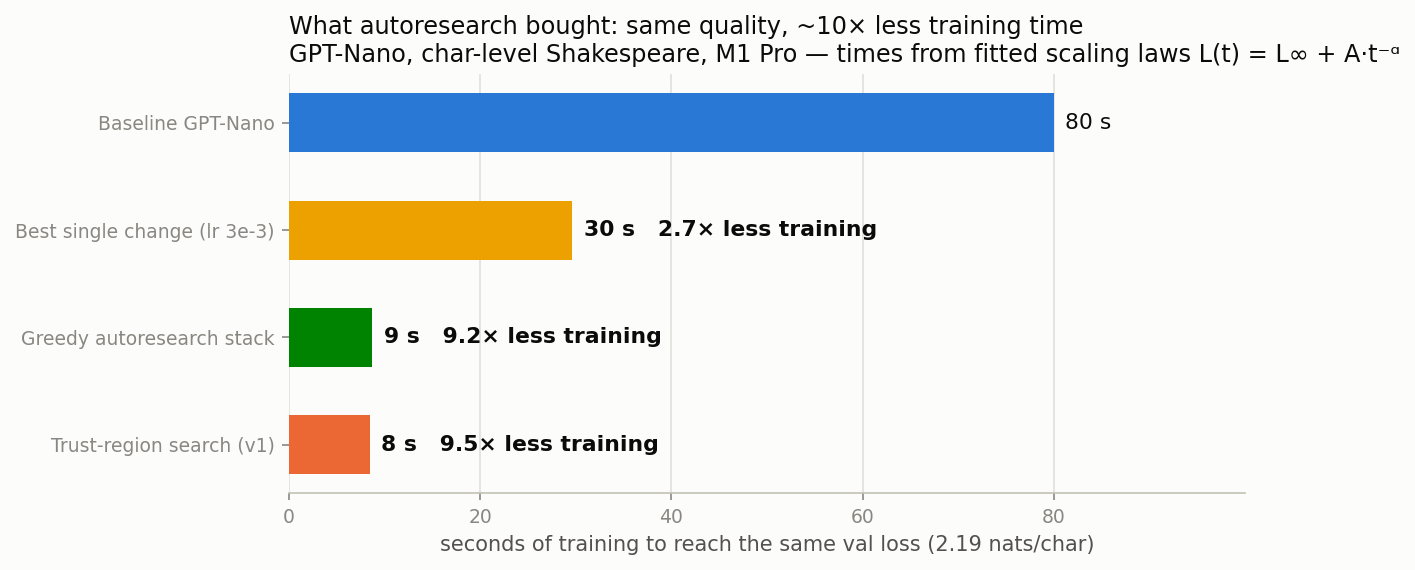
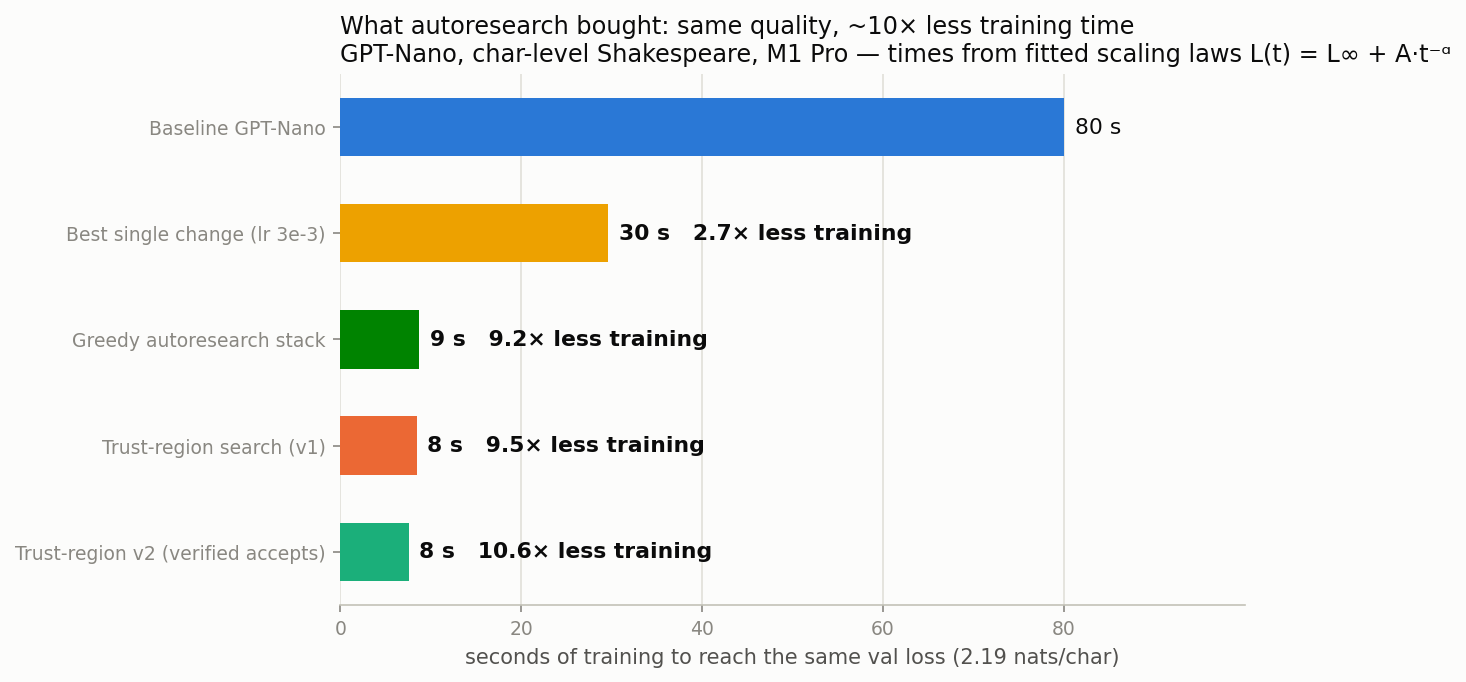
Add TR v2 campaign results and the replicated three-way verdict
v2 campaign (gbar metric, CI acceptance): 2 skip-confirms, 1 noise-level
hold, 1 false positive caught, 1 certified accept (+0.0158 > 0.0125,
n=2), 1-flip local optimality certified. Replicated verdict at 80s:
greedy combo 1.6615+-0.0114 (n=7), v1 uncertified 1.6327+-0.0169 (n=5,
z=3.3 vs combo), v2 certified 1.6489+-0.0060 (n=3, z=2.3 vs combo).
Both TR campaigns beat greedy under replication; v1's risk-taking gained
more, v2 finished with certificates. Figures refreshed (tr2_best joins
the headline bars at 7.6s / 10.6x; it5 under-promise added to scatter).

Claude-Session: https://claude.ai/code/session_01F9BVKaNAeZHzo1DMP4oC7X

Changed region(s): [[0.0, 0.2982, 0.8396, 0.9842], [0.0622, 0.0298, 0.9951, 0.2684]]

diff --git a/make_counterexample.py b/make_counterexample.py
@@ -48,6 +48,7 @@ CAMPAIGN = [
     ("v1 it6", -0.0172, 0.0001),
     ("v2 it3", 0.0006, 0.0027),
     ("v2 it4", 0.0079, -0.0035),
+    ("v2 it5", 0.0013, 0.0158),
 ]
 
 

diff --git a/results/tr2_log.md b/results/tr2_log.md
@@ -1,0 +1,151 @@
+
+# TR v2 campaign 2026-07-18 15:59
+metric: W={'lr': 0.097, 'batch_size': 0.06, 'weight_decay': 0.06, 'dropout': 0.034}  GBAR={'rotary': 0.224, 'weight_tying': 0.136, 'cosine': 0.136, 'rmsnorm': 0.069, 'swiglu': 0.069}
+surrogate {20,40}s, confirm 80s x 2 reps, delta0=0.25 nats, accept >= max(0.05*delta^2, 1.645*SE)
+
+## Iteration 0: score incumbent (combo)
+    tr2_inc0 @ 20s seed=0 -> 1.8955 (230 steps)
+    tr2_inc0 @ 40s seed=0 -> 1.7400 (460 steps)
+    tr2_inc0 @ 80s seed=1 -> 1.6553 (920 steps)
+    tr2_inc0 @ 80s seed=2 -> 1.6596 (910 steps)
+  F_inc = 1.6574 (n=2), L_inf = 1.564
+    tr2_inc_fresh @ 80s seed=3 -> 1.6739 (930 steps)
+
+## Iteration 1  (delta=0.250 nats, F_inc=1.6629 n=3)
+  candidate 0 (d=0.209, flips=-): batch_size=133, lr=0.00204, weight_decay=0.009757
+    tr2_it1_c0 @ 20s seed=0 -> 1.9494 (230 steps)
+    tr2_it1_c0 @ 40s seed=0 -> 1.7628 (460 steps)
+    surrogate: L(80) ~= 1.6665
+  candidate 1 (d=0.250, flips=['rotary', 'rmsnorm']): batch_size=173, dropout=0.01018, lr=0.002114, rmsnorm->False, rotary->False, weight_decay=0.2156
+    tr2_it1_c1 @ 20s seed=0 -> 2.1218 (240 steps)
+    tr2_it1_c1 @ 40s seed=0 -> 1.8754 (480 steps)
+    surrogate: L(80) ~= 1.7379
+  candidate 2 (d=0.134, flips=['swiglu']): batch_size=236, lr=0.002818, swiglu->False, weight_decay=0.3209
+    tr2_it1_c2 @ 20s seed=0 -> 2.1046 (170 steps)
+    tr2_it1_c2 @ 40s seed=0 -> 1.9258 (320 steps)
+    surrogate: L(80) ~= 1.8060
+  candidate 3 (d=0.155, flips=['weight_tying']): lr=0.001873, weight_decay=0.1513, weight_tying->True
+    tr2_it1_c3 @ 20s seed=0 -> 2.0426 (220 steps)
+    tr2_it1_c3 @ 40s seed=0 -> 1.8458 (450 steps)
+    surrogate: L(80) ~= 1.7299
+  best candidate 0: predicted improve -0.0036
+  SKIP-CONFIRM (no predicted improvement in region); shrink
+    tr2_inc_fresh @ 80s seed=4 -> 1.6461 (870 steps)
+
+## Iteration 2  (delta=0.150 nats, F_inc=1.6587 n=4)
+  candidate 0 (d=0.147, flips=['rmsnorm', 'swiglu']): batch_size=163, dropout=0.1496, lr=0.002389, rmsnorm->False, swiglu->False, weight_decay=0.08253
+    tr2_it2_c0 @ 20s seed=0 -> 2.0701 (220 steps)
+    tr2_it2_c0 @ 40s seed=0 -> 1.9020 (450 steps)
+    surrogate: L(80) ~= 1.7897
+  candidate 1 (d=0.105, flips=-): batch_size=81, dropout=0.004322, lr=0.001705, weight_decay=0.191
+    tr2_it2_c1 @ 20s seed=0 -> 2.0315 (200 steps)
+    tr2_it2_c1 @ 40s seed=0 -> 1.8683 (400 steps)
+    surrogate: L(80) ~= 1.7620
+  candidate 2 (d=0.149, flips=['swiglu']): batch_size=366, dropout=0.1246, lr=0.002244, swiglu->False, weight_decay=0.08363
+    tr2_it2_c2 @ 20s seed=0 -> 2.3183 (90 steps)
+    tr2_it2_c2 @ 40s seed=0 -> 2.0701 (200 steps)
+    surrogate: L(80) ~= 1.9036
+  candidate 3 (d=0.047, flips=-): batch_size=84, lr=0.002884, weight_decay=0.1404
+    tr2_it2_c3 @ 20s seed=0 -> 1.9291 (230 steps)
+    tr2_it2_c3 @ 40s seed=0 -> 1.7883 (450 steps)
+    surrogate: L(80) ~= 1.7019
+  best candidate 3: predicted improve -0.0431
+  SKIP-CONFIRM (no predicted improvement in region); shrink
+    tr2_inc_fresh @ 80s seed=5 -> 1.6654 (870 steps)
+
+## Iteration 3  (delta=0.090 nats, F_inc=1.6601 n=5)
+  candidate 0 (d=0.055, flips=-): batch_size=99, dropout=0.03071, lr=0.00346, weight_decay=0.1603
+    tr2_it3_c0 @ 20s seed=0 -> 1.9299 (210 steps)
+    tr2_it3_c0 @ 40s seed=0 -> 1.7887 (400 steps)
+    surrogate: L(80) ~= 1.7020
+  candidate 1 (d=0.055, flips=-): batch_size=142, lr=0.00209, weight_decay=0.07918
+    tr2_it3_c1 @ 20s seed=0 -> 1.9420 (230 steps)
+    tr2_it3_c1 @ 40s seed=0 -> 1.7713 (450 steps)
+    surrogate: L(80) ~= 1.6777
+  candidate 2 (d=0.085, flips=-): batch_size=200, dropout=0.01951, lr=0.001768, weight_decay=0.1131
+    tr2_it3_c2 @ 20s seed=0 -> 2.0049 (180 steps)
+    tr2_it3_c2 @ 40s seed=0 -> 1.8231 (350 steps)
+    surrogate: L(80) ~= 1.7162
+  candidate 3 (d=0.073, flips=['rmsnorm']): batch_size=131, lr=0.00284, rmsnorm->False, weight_decay=0.07705
+    tr2_it3_c3 @ 20s seed=0 -> 1.9070 (230 steps)
+    tr2_it3_c3 @ 40s seed=0 -> 1.7450 (480 steps)
+    surrogate: L(80) ~= 1.6594
+  best candidate 3: predicted improve 0.0006
+    tr2_it3_confirm @ 80s seed=1 -> 1.6544 (930 steps)
+    tr2_it3_confirm @ 80s seed=2 -> 1.6603 (910 steps)
+  confirm: F_new = 1.6573 (n=2)  improve 0.0027 vs threshold 0.0131 (SD 0.0004, CI 0.0131)  rho=gated
+  reject
+  new delta = 0.045
+    tr2_inc_fresh @ 80s seed=6 -> 1.6777 (830 steps)
+
+## Iteration 4  (delta=0.045 nats, F_inc=1.6630 n=6)
+  candidate 0 (d=0.040, flips=-): batch_size=108, lr=0.003601, weight_decay=0.07373
+    tr2_it4_c0 @ 20s seed=0 -> 1.8950 (220 steps)
+    tr2_it4_c0 @ 40s seed=0 -> 1.7514 (430 steps)
+    surrogate: L(80) ~= 1.6701
+  candidate 1 (d=0.044, flips=-): batch_size=130, dropout=0.01644, lr=0.003775, weight_decay=0.1376
+    tr2_it4_c1 @ 20s seed=0 -> 1.8928 (200 steps)
+    tr2_it4_c1 @ 40s seed=0 -> 1.7371 (400 steps)
+    surrogate: L(80) ~= 1.6551
+  candidate 2 (d=0.042, flips=-): batch_size=85, lr=0.002854, weight_decay=0.1275
+    tr2_it4_c2 @ 20s seed=0 -> 1.9442 (220 steps)
+    tr2_it4_c2 @ 40s seed=0 -> 1.7967 (430 steps)
+    surrogate: L(80) ~= 1.7064
+  candidate 3 (d=0.039, flips=-): batch_size=102, lr=0.002434, weight_decay=0.1208
+    tr2_it4_c3 @ 20s seed=0 -> 1.9515 (220 steps)
+    tr2_it4_c3 @ 40s seed=0 -> 1.8051 (440 steps)
+    surrogate: L(80) ~= 1.7140
+  best candidate 1: predicted improve 0.0079
+    tr2_it4_confirm @ 80s seed=1 -> 1.6611 (750 steps)
+    tr2_it4_confirm @ 80s seed=2 -> 1.6720 (770 steps)
+  confirm: F_new = 1.6666 (n=2)  improve -0.0035 vs threshold 0.0128 (SD 0.0001, CI 0.0128)  rho=gated
+  reject
+  new delta = 0.040
+    tr2_inc_fresh @ 80s seed=7 -> 1.6528 (840 steps)
+
+## Iteration 5  (delta=0.040 nats, F_inc=1.6615 n=7)
+  candidate 0 (d=0.018, flips=-): batch_size=120, dropout=0.009601, lr=0.002875, weight_decay=0.08471
+    tr2_it5_c0 @ 20s seed=0 -> 1.9257 (200 steps)
+    tr2_it5_c0 @ 40s seed=0 -> 1.7637 (410 steps)
+    surrogate: L(80) ~= 1.6743
+  candidate 1 (d=0.027, flips=-): batch_size=150, dropout=0.03396, lr=0.002901, weight_decay=0.1016
+    tr2_it5_c1 @ 20s seed=0 -> 1.9417 (200 steps)
+    tr2_it5_c1 @ 40s seed=0 -> 1.7858 (370 steps)
+    surrogate: L(80) ~= 1.6943
+  candidate 2 (d=0.017, flips=-): batch_size=154, lr=0.002903, weight_decay=0.09953
+    tr2_it5_c2 @ 20s seed=0 -> 1.9534 (180 steps)
+    tr2_it5_c2 @ 40s seed=0 -> 1.7576 (430 steps)
+    surrogate: L(80) ~= 1.6602
+  candidate 3 (d=0.024, flips=-): batch_size=104, lr=0.002824, weight_decay=0.0865
+    tr2_it5_c3 @ 20s seed=0 -> 1.9032 (220 steps)
+    tr2_it5_c3 @ 40s seed=0 -> 1.7448 (450 steps)
+    surrogate: L(80) ~= 1.6604
+  best candidate 2: predicted improve 0.0013
+    tr2_it5_confirm @ 80s seed=1 -> 1.6433 (880 steps)
+    tr2_it5_confirm @ 80s seed=2 -> 1.6483 (840 steps)
+  confirm: F_new = 1.6458 (n=2)  improve 0.0158 vs threshold 0.0125 (SD 0.0001, CI 0.0125)  rho=gated
+  ACCEPT -> new incumbent 1.6458 (L_inf 1.497)  [batch_size=154, lr=0.002903, weight_decay=0.09953]
+  new delta = 0.040
+
+## Final incumbent: 1.6458 (n=2)  [batch_size=154, lr=0.002903, weight_decay=0.09953]
+
+## 1-flip optimality poll (all 5 flags, 80s, 1 seed)
+    tr2_poll_cosine @ 80s seed=1 -> 1.6679 (820 steps)
+  flip cosine -> 1.6679 (no gain)
+    tr2_poll_rmsnorm @ 80s seed=1 -> 1.6340 (910 steps)
+  flip rmsnorm -> 1.6340 (no gain)
+    tr2_poll_rotary @ 80s seed=1 -> 1.7156 (960 steps)
+  flip rotary -> 1.7156 (no gain)
+    tr2_poll_swiglu @ 80s seed=1 -> 1.6909 (940 steps)
+  flip swiglu -> 1.6909 (no gain)
+    tr2_poll_weight_tying @ 80s seed=1 -> 1.6634 (850 steps)
+  flip weight_tying -> 1.6634 (no gain)
+  1-flip local optimality: CERTIFIED (LCB margin 0.0191)
+
+## Budget-grid sweep of tr2_best
+  tr2_best @ 10s -> 2.0902
+  tr2_best @ 20s -> 1.9027
+  tr2_best @ 40s -> 1.7470
+  tr2_best @ 80s -> 1.6552
+
+done; python analyze.py for the updated scaling plot

diff --git a/README.md b/README.md
@@ -109,6 +109,40 @@ low-fidelity autoresearch loop makes silently, made measurable — and why
 this repo wraps the loop in trust-region distrust logic (§ below).
 (Regenerate: `python make_counterexample.py`.)
 
+## Did the trust region work? The replicated verdict
+
+**Decision-level** (one ~50-min v2 campaign with the learned gbar metric,
+replicated CI acceptance, fresh incumbent estimates):
+
+- 2 of 5 iterations **skipped the confirm entirely** (surrogate predicted no
+  in-region gain) — v1 had wasted 5/6 confirm budgets exactly there.
+- Iteration 3: a +0.0027 "improvement" correctly **held below the CI bar**
+  (threshold 0.0131) — v1's margin would have accepted it.
+- Iteration 4: a **false positive caught** — surrogate predicted +0.008, the
+  replicated truth measured −0.004, rejected.
+- Iteration 5: the first **certified accept** — +0.0158 ≥ threshold 0.0125,
+  n=2 paired seeds (batch 154, lr 2.9e-3, wd 0.0995).
+- Final poll: **1-flip local optimality certified** (LCB margin 0.019); the
+  rmsnorm-off flip measured +0.012 — promising but below the 1-seed bar, and
+  it is the same move v1 had adopted.
+
+**Outcome-level** (val loss @ 80 s, fresh replicate seeds):
+
+| recipe | mean ± sd (n) | vs greedy combo |
+|---|---|---|
+| greedy combo | 1.6615 ± 0.0114 (7) | — |
+| v1 trust region (uncertified accepts) | **1.6327** ± 0.0169 (5) | −0.029, z ≈ 3.3 — real |
+| v2 trust region (certified accepts) | 1.6489 ± 0.0060 (3) | −0.013, z ≈ 2.3 — real |
+
+Both trust-region campaigns beat the greedy stack under replication. The
+honest trade-off: v1's risk-taking gained more ground than v2's certification
+(Δ ≈ 0.016, z ≈ 2.0) in these short campaigns — v1's *individual* accepts
+were noise-sized bets that happened to compound well, and only replication
+after the fact could tell; v2 paid part of its budget for the guarantee that
+every accepted step is real and finished with a certificate instead of a
+hope. At larger fidelity gaps and candidate volumes the false-positive rate
+v1 tolerates compounds against it (see the counterexample figure).
+
 ## Flagship result
 
 ![time to match quality](results/headline.png)
@@ -123,7 +157,8 @@ batch 128) reaches the baseline's 80-second loss in under 10 seconds — a
 measured >8× effective-training-time speedup — and the trust-region campaign
 improved on it further: `tr_best` hits **1.6155** at 80 s vs baseline
 **2.191**, steepening the scaling exponent from α ≈ 0.21 to α ≈ 0.75.** Full
-decision log in [`results/tr_log.md`](results/tr_log.md).
+decision log in [`results/tr_log.md`](results/tr_log.md). (Single-seed
+numbers; the replicated three-way verdict is in the section above.)
 
 ![scaling laws](results/scaling.png)
 

diff --git a/results/report.md b/results/report.md
@@ -7,6 +7,7 @@ Fitted law: `L(t) = L_inf + A * t^-alpha`. *Effective time multiplier* = how muc
 | variant | L @ 10s | L @ 20s | L @ 40s | L @ 80s | L_inf | A | alpha | eff. time x |
 |---|---|---|---|---|---|---|---|---|
 | tr_best | 2.1065 | 1.8539 | 1.7044 | 1.6155 | 1.486 | 3.523 | 0.754 | 117.92x |
+| tr2_best | 2.0902 | 1.9027 | 1.7470 | 1.6552 | 1.381 | 2.067 | 0.464 | 69.57x |
 | combo | 2.1380 | 1.9217 | 1.7763 | 1.6650 | 1.407 | 2.298 | 0.498 | 61.60x |
 | lr_3e3 | 2.4397 | 2.3094 | 2.1366 | 1.9507 | 0.000 | 3.143 | 0.106 | 4.51x |
 | rotary | 2.7317 | 2.3696 | 2.1390 | 1.9665 | 1.625 | 4.023 | 0.561 | 4.04x |
@@ -25,6 +26,7 @@ Fitted law: `L(t) = L_inf + A * t^-alpha`. *Effective time multiplier* = how muc
 ## Variant descriptions
 
 - **tr_best** — trust-region search result: batch_size=176, dropout=0.01289, lr=0.005352, rmsnorm->False, weight_decay=0.1654
+- **tr2_best** — TR v2 result: batch_size=154, lr=0.002903, weight_decay=0.09953
 - **combo** — stack of the round-1 winners: lr 3e-3 + rotary + RMSNorm/SwiGLU + dropout 0 + batch 128 (cosine and weight tying excluded — both hurt at these budgets)
 - **lr_3e3** — learning rate 5e-4 -> 3e-3
 - **rotary** — rotary position embeddings instead of learned absolute